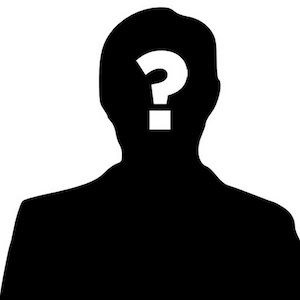
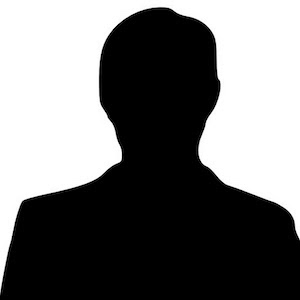
trying to make it better

Changed region(s): [[0.45, 0.15, 0.63, 0.45]]

diff --git a/src/app/profile/profile.component.ts b/src/app/profile/profile.component.ts
@@ -21,7 +21,7 @@ export class ProfileComponent extends BaseComponent implements OnInit {
   public showRequiredFieldsFlg: boolean = false;
   public requiredFieldColor: string = '#ffffc0';
   public inputFieldObj: any;
-  public menuTitles = ['Basics', 'Verify Email', 'Details', 'Personality Test', 'Political Assessment', 'Profile Image', 'Pictures', 'Your Match', 'Done'];
+  public menuTitles = ['Basics', 'Verify Email', 'Details', 'Personality Test', 'Political Assessment', 'Profile Image', 'Pictures', 'Bio', 'Your Match', 'Done'];
   public menuDesc = [
     'Ready to find love? Yes you are! Let\'s start with your basic infomation',
     'We want to verify your email to know you are legit. Feel free to skip for now if you want. We trust you!',
@@ -30,11 +30,12 @@ export class ProfileComponent extends BaseComponent implements OnInit {
     'You might not care about politics, but this is just one more tool you can use when looking at matches. NO ONE will be able to see your answers to these questions. The scores are only meant to tell you how close or far away you are from potential matches on the political spectrum.',
     'Take a selfie! And make it a good one. Make sure you show your beautiful face.',
     'This is optional, but feel free to add up to 4 more pictures',
-    'Final Step! Tell us what you are looking for in a match. And don\'t worry, these are simply used to tell you how close each potential match is to your ideal.',
+    'Tell us about yourself! (Optional)',
+    'Final Step! Tell us what you are looking for in a match.',
     'That\'s it! You are ready to find love.',
     'end'
   ]
-  public menuTitles2 = ['Basics', 'Email', 'Details', 'Personality', 'Politics', 'Image', 'Pics', 'Match'];
+  public menuTitles2 = ['Basics', 'Email', 'Details', 'Personality', 'Politics', 'Image', 'Pics', 'Bio', 'Match'];
   public educationLevels = ['No Education', 'High School Grad', 'Some College', '2-year Degree', '4-year Degree', 'Masters Degree', 'PhD'];
   public incomes = ['Under $20K', '$20K - $49K', '$50K - $99K', '$100K - $199K', 'over $200K'];
   public maritalStatus = ['Single', 'Married', 'Divorced'];
@@ -326,10 +327,10 @@ export class ProfileComponent extends BaseComponent implements OnInit {
   }
 
   override postSuccessApi(file: string, responseJson: any) {
-    //console.log('XXX postSuccessApi', file, responseJson);
+    console.log('XXX postSuccessApi', file, responseJson);
     this.loadingFlg = false;
     if (responseJson.action == "logUser") {
-      if (!this.user.email && responseJson.user.email) {
+      if (!this.user.email && responseJson.user && responseJson.user.email) {
         console.log('fixing User!!', this.user.email, responseJson.user.email);
         this.user.email = responseJson.user.email;
         this.user.phone = responseJson.user.phone;
@@ -472,7 +473,15 @@ export class ProfileComponent extends BaseComponent implements OnInit {
       else
         this.user.profileFlags[this.menuNum] = (this.user.maritalStatus);
     }
-    if (this.menuNum == 7) {
+
+    if(this.menuNum == 7) {
+      this.user.aboutme = $('#aboutme').val();
+      this.user.history = $('#history').val();
+      this.user.lookingFor = $('#lookingFor').val();
+      //action: "postMainJournal"
+    }
+
+    if (this.menuNum == 8) {
       this.user.story = $('#story').val();
       this.user.profileFlags[this.menuNum] = (this.user.story);
 
@@ -489,8 +498,9 @@ export class ProfileComponent extends BaseComponent implements OnInit {
         this.user.matchWantsKids = $('#matchWantsKids').val();
         this.user.matchWantsKids = $('#matchWantsKids').val();  
       }
-
     }
+
+
   }
   profileSubmitPress() {
     this.loadingFlg = true;
@@ -498,6 +508,11 @@ export class ProfileComponent extends BaseComponent implements OnInit {
     this.errorMessage = '';
     this.menuSubmitdisableFlg = true;
     this.menuDisableFlg = true;
+
+    if(this.menuNum == 7) {
+      this.getDataFromServer('updateProfile', 'appApiCode.php', {aboutme: this.user.aboutme, history: this.user.history, lookingFor: this.user.lookingFor, updateNum: 99});
+      return;
+    }
 
     var params = {
       userId: this.user.user_id,
@@ -554,7 +569,7 @@ export class ProfileComponent extends BaseComponent implements OnInit {
       longitude: localStorage['longitude'],
       action: 'updateProfile',
     };
-    //console.log('xxParamsxx', params);
+    console.log('xxParamsxx', params);
     this.executeApi('appApiCode.php', params, true);
   }
 

diff --git a/src/app/profile/profile.component.html b/src/app/profile/profile.component.html
@@ -14,7 +14,7 @@
                         [style.color]="user.profileFlags[menuNum]?'#7f7':'yellow'"></i>
                     {{menuTitles[menuNum]}}
                     <div style="font-size: 12px; color: #eee;">{{menuDesc[menuNum]}}</div>
-                    <div *ngIf="menuNum<8" style="font-size: 10px;">{{menuNum+1}} of 8</div>
+                    <div *ngIf="menuNum<8" style="font-size: 10px;">{{menuNum+1}} of 9</div>
                 </div>
                 <div *ngIf="!email">Error! No email: {{email}}</div>
                 <div *ngIf="!code" style="background-color: yellow;">App is out of sync. Try logging out and logging
@@ -472,13 +472,23 @@
                         (messageEvent)="uploadPicButtonClicked(3)"></app-upload-image>
                 </div>
 
-                <!-----------------------------4--Your match------------------------>
-                <div class="menu-section" *ngIf="user && menuNum==7">
+                <!--------------------------Bio------------------>
+                <div class="menu-section" *ngIf="menuNum==7" style="text-align: left; font-size: 12px;">
+
+                    <div>Tell us a little about yourself:</div>
+                    <app-text-area-input [id]="'aboutme'" (messageEvent)="menuValueChanged()" [value]="user.aboutme"></app-text-area-input>
+                    <div>Tell us a little about your recent dating situation:</div>
+                    <app-text-area-input [id]="'history'" (messageEvent)="menuValueChanged()" [value]="user.history"></app-text-area-input>
+                    <div>What are you hoping to find:</div>
+                    <app-text-area-input [id]="'lookingFor'" (messageEvent)="menuValueChanged()" [value]="user.lookingFor"></app-text-area-input>
+
+                </div>
+                <!-------------------------------Your match------------------------>
+                <div class="menu-section" *ngIf="user && menuNum==8">
                     <div *ngIf="!user.findLoveFlg">Note, you did not select the "Find Love" option, so skip this
                         step
                     </div>
                     <div *ngIf="user.findLoveFlg">
-
 
                         <div class="tiny-text"><i *ngIf="showRequiredFieldsFlg" class="fa fa-asterisk"
                                 style="color: red;"></i> What are you looking for? (One sentence)</div>
@@ -598,8 +608,9 @@
                 </div>
 
 
-                <!--------------------------8------------------>
-                <div class="menu-section" *ngIf="menuNum==8">
+
+                <!--------------------------9------------------>
+                <div class="menu-section" *ngIf="menuNum==9">
                     <h1>Congratulations!</h1>
                     <div> Your profile is now active. Enjoy your journey.</div>
                     <button [routerLink]="['']" class="btn red-button">Get

diff --git a/src/app/classes/user.ts b/src/app/classes/user.ts
@@ -211,11 +211,17 @@ export class User {
     public points: number = 0;
     public giftCount: number = 0;
     public created: string = '';
+    public aboutme: string = '';
+    public history: string = '';
+    public lookingFor: string = '';
 
     constructor(obj: any, myUser: any = null) {
         if (obj) {
             this.user_id = obj.user_id || 0;
             this.created = obj.created || '';
+            this.aboutme = obj.aboutme || '';
+            this.history = obj.history || '';
+            this.lookingFor = obj.lookingFor || '';
             this.emailNum = obj.emailNum || 0;
             this.giftCount = obj.giftCount || 0;
             this.consecutiveDays = obj.consecutiveDays || 0;
@@ -460,7 +466,6 @@ export class User {
 
         var createDt = getDateObjFromJSDate(this.created);
         this.created = createDt.localDate;
-        //var poolImg = (this.matchPreference == 'F') ? 'assets/images/woman.jpeg' : 'assets/images/man.jpg';
 
         this.notifications = Math.round(this.users_interested) + Math.round(this.users_matched) + Math.round(this.questions_asked) + Math.round(this.dates_requested) + Math.round(this.messages_received) + Math.round(this.info_requested);
 
@@ -756,7 +761,7 @@ export class User {
             this.status = 'Pending';
         }
 
-        this.profileFlags = [basicsFlg, true, detailsFlg, quizFlg, politicsFlg, profilePicFlg, additionalPicsFlg, matchFlg, true];
+        this.profileFlags = [basicsFlg, true, detailsFlg, quizFlg, politicsFlg, profilePicFlg, additionalPicsFlg, true, matchFlg, true];
     }
     userObjFromText(line: string) {
         var obj = {};
@@ -840,7 +845,7 @@ export class User {
     }
 }
 function betraImageFromId(user_id: number, profilePic: number, gender: string, picFlagged: number) {
-    var imgSrc = (gender && gender == 'M') ? 'assets/images/theRock.png' : 'assets/images/galGadot.png';
+    var imgSrc = (gender && gender == 'M') ? 'assets/images/profile/man.jpg' : 'assets/images/profile/woman.jpeg';
 
     if (user_id > 0 && profilePic > 0)
         imgSrc = 'https://www.betradating.com/betraPhp/profileImages/profile' + user_id.toString() + '_' + profilePic.toString() + '.jpg';

diff --git a/src/app/match-snapshot/match-snapshot.component.html b/src/app/match-snapshot/match-snapshot.component.html
@@ -23,6 +23,19 @@
                         </tr>
                     </table>
 
+                    <div *ngIf="matchUser.aboutme" class="small-box" style="font-size: 12px; text-align: left;">
+                        <div class="small-title main-color">About Me</div>
+                        <div [innerHtml]="matchUser.aboutme"></div>
+                    </div>
+                    <div *ngIf="matchUser.history" class="small-box" style="font-size: 12px; text-align: left;">
+                        <div class="small-title main-color">Dating History</div>
+                        <div [innerHtml]="matchUser.history"></div>
+                    </div>
+                    <div *ngIf="matchUser.lookingFor" class="small-box" style="font-size: 12px; text-align: left;">
+                        <div class="small-title main-color">Looking For</div>
+                        <div [innerHtml]="matchUser.lookingFor"></div>
+                    </div>
+
                     <table width="100%">
                         <tr>
                             <td>

diff --git a/src/app/page-shell/page-shell.component.html b/src/app/page-shell/page-shell.component.html
@@ -111,8 +111,10 @@
                 </td>
                 <td *ngIf="userId>0 && userStatus == 'Active'" valign="top" align="center" width="200" class="hide-md"
                     style="width: 200px;">
-                    <div style="position: fixed; top: 60px; right: 0; width: 200px;">
+                    <div style="position: fixed; top: 60px; right: 0; width: 200px; padding: 7px;">
                         <div style="color: gray;">Sponsored</div>
+                        <a href="https://www.superpowersgame.com"><img src="assets/images/ads/ad.png" width="100%" class="image"></a>
+                        <div style="font-size: 12px; font-weight: 700;">War with friends!</div>
                         <!--<app-ad-mob></app-ad-mob>-->
                         <!--<ins class="adsbygoogle" style="display:block" data-ad-client="ca-pub-2626924352662007"
                         data-ad-slot="3410873039" data-ad-format="auto" data-full-width-responsive="true"></ins>-->

diff --git a/src/app/membership-confirmation/membership-confirmation.component.ts b/src/app/membership-confirmation/membership-confirmation.component.ts
@@ -20,6 +20,7 @@ export class MembershipConfirmationComponent extends BaseComponent implements On
   public id: number = 0;
   public plan: any = null;
   public showFormFlg: boolean = true;
+  public paymentSuccessFlg: boolean = false;
 
   constructor(private route: ActivatedRoute, databaseService: DatabaseService) { super(databaseService) }
 
@@ -118,4 +119,11 @@ export class MembershipConfirmationComponent extends BaseComponent implements On
     }
     this.getDataFromServer('processPayment', 'payments.php', params);
   }
+  override postSuccessApi(file: string, responseJson: any) {
+    super.postSuccessApi(file, responseJson);
+    if (responseJson.action == 'processPayment') {
+      this.paymentSuccessFlg = true;
+    }
+  }
+
 }

diff --git a/src/app/user-detail/user-detail.component.ts b/src/app/user-detail/user-detail.component.ts
@@ -92,7 +92,6 @@ export class UserDetailComponent extends BaseComponent implements OnInit {
         this.pageTitle = 'Browse';
         this.showBigPopupFlg = true;
         this.showYesNoButtonsFlg = true;
-
         if (!this.showFilter)
           this.browseSingles('findMatches');
       }
@@ -145,11 +144,8 @@ export class UserDetailComponent extends BaseComponent implements OnInit {
     this.searchStarted = false;
     this.matchUser = null;
     if (this.id != 4 && (this.user.exceededPoolSizeFlg || this.user.showHeartFormFlg)) {
+      console.log('exxeced!');
       //      this.logUser('Y');
-      return;
-    }
-    if (!this.user.lat) {
-      //    this.logUser('Y');
       return;
     }
     this.searchStarted = true;

diff --git a/src/app/browse-singles/browse-singles.component.html b/src/app/browse-singles/browse-singles.component.html
@@ -13,9 +13,8 @@
         </div>
         <div *ngIf="showProfileViewDetailsFlg" class="gray-text" style="padding-left: 10px; padding-right: 10px;">
             <hr>
-            You can swipe up to 12 profiles per day. Say yes to as many as you like. If you get through your entire
-            batch
-            of 12, you will need to wait until tomorrow to get a new batch.
+            You can like up to 12 profiles per day. If you get through your entire
+            batch of 12, you will need to wait until tomorrow to get a new batch.
         </div>
     </div>
     <div class="matches-card" *ngIf="!user.lat" [routerLink]="['/location']" style="cursor: pointer;">

diff --git a/src/js/jsLib.js b/src/js/jsLib.js
@@ -2,7 +2,7 @@ function getHostname() {
 	return 'https://www.betradating.com/betraPhp/';
 }
 function getVersion() {
-	return '2.37';
+	return '2.38';
 }
 function getPlatform() {
 	var platform = 0; // edit this line, 0 = web, 1 = android, 2 = ios
@@ -84,7 +84,7 @@ function betraImageFromId(user_id, profilePic) {
 	if (user_id > 0 && profilePic > 0)
 		return 'https://www.betradating.com/betraPhp/profileImages/profile' + user_id.toString() + '_' + profilePic.toString() + '.jpg';
 	else
-		return 'assets/images/theRock.png';
+		return 'assets/images/profile/man.jpg';
 }
 function getIPInfo2(userName, pwd) {
 	showAlertPopup('ip Request!!', 1);

diff --git a/src/app/base/base.component.ts b/src/app/base/base.component.ts
@@ -28,8 +28,8 @@ export class BaseComponent implements OnInit {
   public displayYear = new Date().getFullYear();
   public popupNum: number = 1;
   public user: any;
-  public imgSrc: string = 'assets/images/theRock.png';
-  public imgSrcFile: string = 'assets/images/theRock.png';
+  public imgSrc: string = 'assets/images/profile/man.jpg';
+  public imgSrcFile: string = 'assets/images/profile/man.jpg';
   public apiSuccessFlg: boolean = false;
   public responseJson: any = null;
   public userStatus: string = '';

diff --git a/src/app/user-detail/user-detail.component.html b/src/app/user-detail/user-detail.component.html
@@ -61,7 +61,7 @@
                     every day. Support Betra by telling your friends about it.
                 </div>
                 <div *ngIf="playerList.length >= 10">
-                    You can swipe up to 12 profiles per day. Say yes to as many as you like. If you get through your
+                    You can like up to 12 profiles per day. If you get through your
                     entire
                     batch
                     of 12, you will need to wait until tomorrow to get a new batch.

diff --git a/src/app/page-shell/page-shell.component.ts b/src/app/page-shell/page-shell.component.ts
@@ -39,7 +39,7 @@ export class PageShellComponent implements OnInit {
   @Input('userId') userId: number = 0;
   @Input('userStatus') userStatus: string = '';
   @Input('pageTitle') pageTitle: string = '';
-  @Input('imgSrcFile') imgSrcFile: string = 'assets/images/theRock.png';
+  @Input('imgSrcFile') imgSrcFile: string = 'assets/images/profile/man.jpg';
   @Input('headerObj') headerObj: any = null;
   @Input('popupNum') popupNum: number = 0;
   @Input('stickyBottomFlg') stickyBottomFlg: boolean = false;
